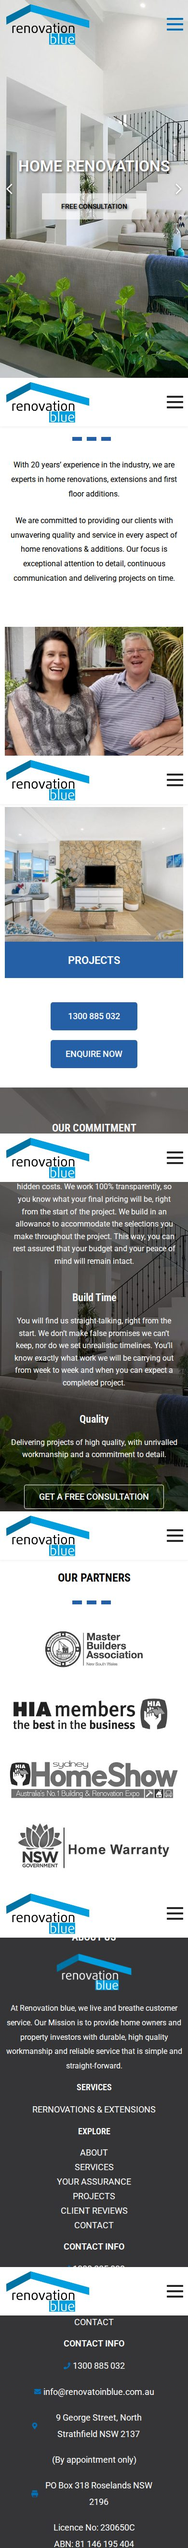
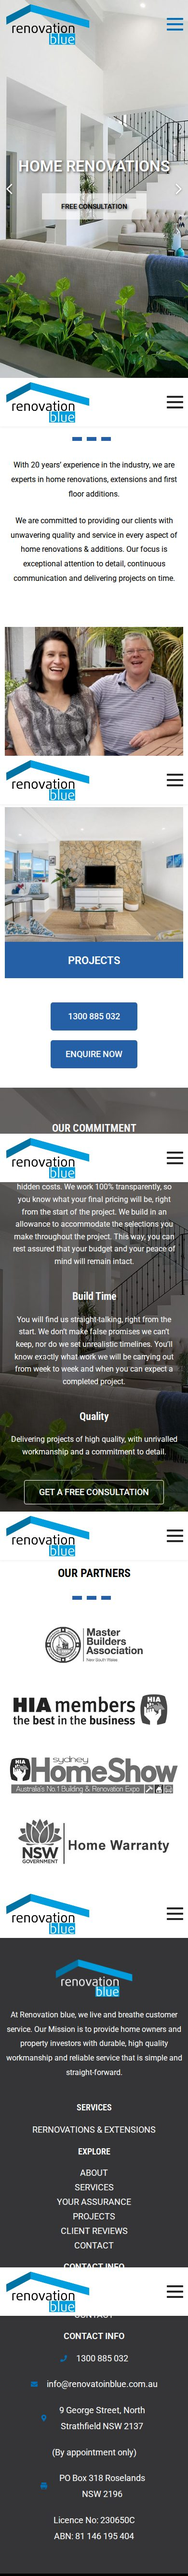
Mobile: replace width-specific hacks with the original's real rules
Measured the original at 360/390/412/430/540/767 instead of only 390, which
exposed several values that were fitted to one screen size:

- contact rows are 60% of the column, not a fixed 260px cap (the cap wrapped
  the address onto three lines and squeezed the block on wider phones)
- footer logo is 45% of the column, not a fixed 162px
- icon gutter is a 28px column, not a 14px icon plus margin - this was
  widening the text by 10px and moving where lines broke
- contact rows carry 10px padding plus a 10px gap between them
- ABOUT US clears 40px on phone
- copyright line is capped so it wraps in two on narrow phones
- commitment paragraph spacing is now calc(1.6em + 20px) so it tracks the
  smaller phone type instead of staying at the desktop pixel value

Page height is now within 1-2px of the original at all six widths, and the
desktop layout is unchanged (footer 625px, page 4124px).

diff --git a/assets/css/main.css b/assets/css/main.css
@@ -496,7 +496,9 @@ button {
 .commitment__panel p {
   font-size: 18px;
   line-height: 1.6;
-  margin-bottom: 48.8px;   /* 1.6em paragraph spacing + 20px widget gap */
+  /* 1.6em of paragraph spacing plus the 20px widget gap. Kept relative so it
+     tracks the smaller 16px type on phone instead of staying at the 18px value. */
+  margin-bottom: calc(1.6em + 20px);
 }
 
 .commitment__panel .btn { align-self: flex-start; }
@@ -569,6 +571,8 @@ button {
   line-height: 1.857;
   color: var(--color-white);
 }
+.footer-list--icons li > a,
+.footer-list--icons li > span:not(.footer-list__icon) { padding-left: 5px; }
 .footer-list a { transition: color var(--transition-fast); }
 .footer-list a:hover { color: var(--color-blue-light); }
 
@@ -579,9 +583,9 @@ button {
 }
 .footer-list--icons li:last-child { padding-bottom: 0; }
 .footer-list__icon {
-  flex: 0 0 14px;
-  width: 14px;
-  margin: 0 5px 0 0;
+  flex: 0 0 28px;
+  width: 28px;
+  margin: 0;
   line-height: 0;   /* no line box, so the icon never grows the row */
 }
 .footer-list__icon svg {
@@ -690,7 +694,7 @@ html:not(.js) .reveal { opacity: 1; transform: none; }
     gap: 20px;
     max-width: none;
   }
-  .partners__grid img { max-width: none; }
+  .partners__grid img { max-width: 664px; }   /* natural size - never upscale */
 
   .site-footer__bar .container { padding: 0 10px; }
 }
@@ -747,13 +751,28 @@ html:not(.js) .reveal { opacity: 1; transform: none; }
   /* Phone-only footer type: the about paragraph drops to 16px while the
      licence lines stay at 18px, and the ABOUT US heading steps up to 22px.
      Both quirks are how the original renders below 767px. */
-  .site-footer__col .site-footer__about { font-size: 16px; }
-  .site-footer__heading--about { font-size: 22px; }
-  .site-footer__logo { margin-left: auto; margin-right: auto; }
-  /* The original keeps the contact rows narrow so the address and PO box wrap
-     onto two lines and the icons sit beside the text rather than at the edge. */
-  .footer-list--icons { max-width: 260px; margin-left: auto; margin-right: auto; }
-  .footer-list--icons li { justify-content: center; }
+  .site-footer__col .site-footer__about { font-size: 16px; margin-bottom: 1.75em; }
+  .site-footer__heading--about { font-size: 22px; margin-bottom: 40px; }
+  .site-footer__logo {
+    width: 45%;          /* scales with the phone, as on the original */
+    height: auto;
+    margin-left: auto;
+    margin-right: auto;
+  }
+  /* Contact rows are 60% of the column width and centred - measured off the
+     original at 360, 390, 412, 430, 540 and 767px, where it holds exactly.
+     Keep it as a percentage: a fixed pixel width wraps badly on wider phones. */
+  .footer-list--icons li {
+    width: 60%;
+    margin-left: auto;
+    margin-right: auto;
+    justify-content: center;
+    /* 10px inside the row plus a 10px gap after it - that is how the original
+       spaces these on phone, and it is what sets the footer's height. */
+    padding-bottom: 10px;
+    margin-bottom: 10px;
+  }
+  .footer-list--icons li:last-child { padding-bottom: 0; margin-bottom: 0; }
   .footer-nav a { text-align: center; }
 
   .site-footer__bar .container {
@@ -765,4 +784,5 @@ html:not(.js) .reveal { opacity: 1; transform: none; }
   }
   .site-footer__copyright,
   .site-footer__credit { padding: 10px 0; }
+  .site-footer__copyright { max-width: 70%; margin-left: auto; margin-right: auto; }
 }

diff --git a/index.html b/index.html
@@ -24,8 +24,8 @@
 <!-- Styles -->
 <link rel="preload" href="assets/fonts/roboto-latin.woff2" as="font" type="font/woff2" crossorigin>
 <link rel="preload" href="assets/fonts/robotocondensed-latin.woff2" as="font" type="font/woff2" crossorigin>
-<link rel="stylesheet" href="assets/css/fonts.css?v=3">
-<link rel="stylesheet" href="assets/css/main.css?v=3">
+<link rel="stylesheet" href="assets/css/fonts.css?v=4">
+<link rel="stylesheet" href="assets/css/main.css?v=4">
 
 <script type="application/ld+json">
 {
@@ -343,6 +343,6 @@
 
 </footer>
 
-<script src="assets/js/main.js?v=3" defer></script>
+<script src="assets/js/main.js?v=4" defer></script>
 </body>
 </html>

diff --git a/404.html b/404.html
@@ -6,8 +6,8 @@
 <title>Page not found &ndash; Renovation Blue</title>
 <meta name="robots" content="noindex">
 <link rel="icon" href="/assets/img/favicon-300.png" sizes="any">
-<link rel="stylesheet" href="/assets/css/fonts.css?v=3">
-<link rel="stylesheet" href="/assets/css/main.css?v=3">
+<link rel="stylesheet" href="/assets/css/fonts.css?v=4">
+<link rel="stylesheet" href="/assets/css/main.css?v=4">
 <style>
   .error-page {
     min-height: 100vh;
